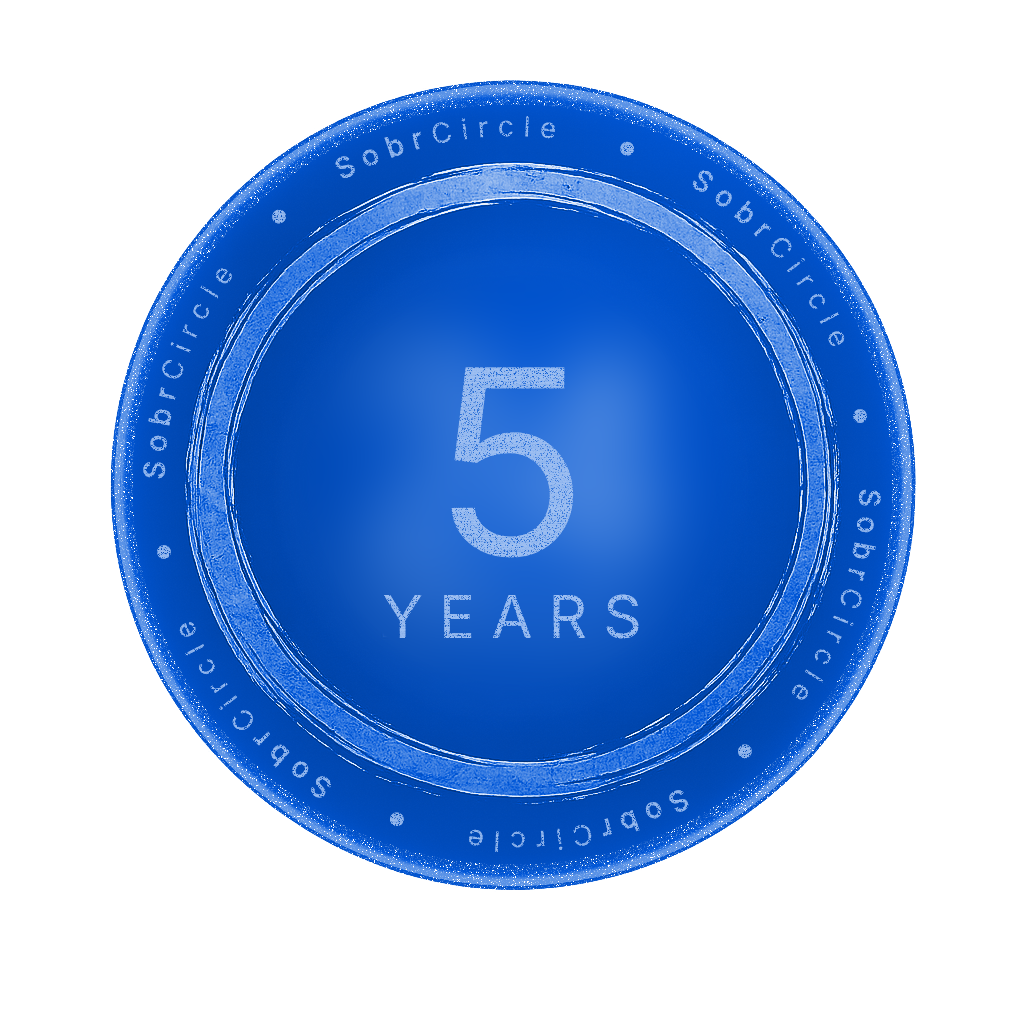
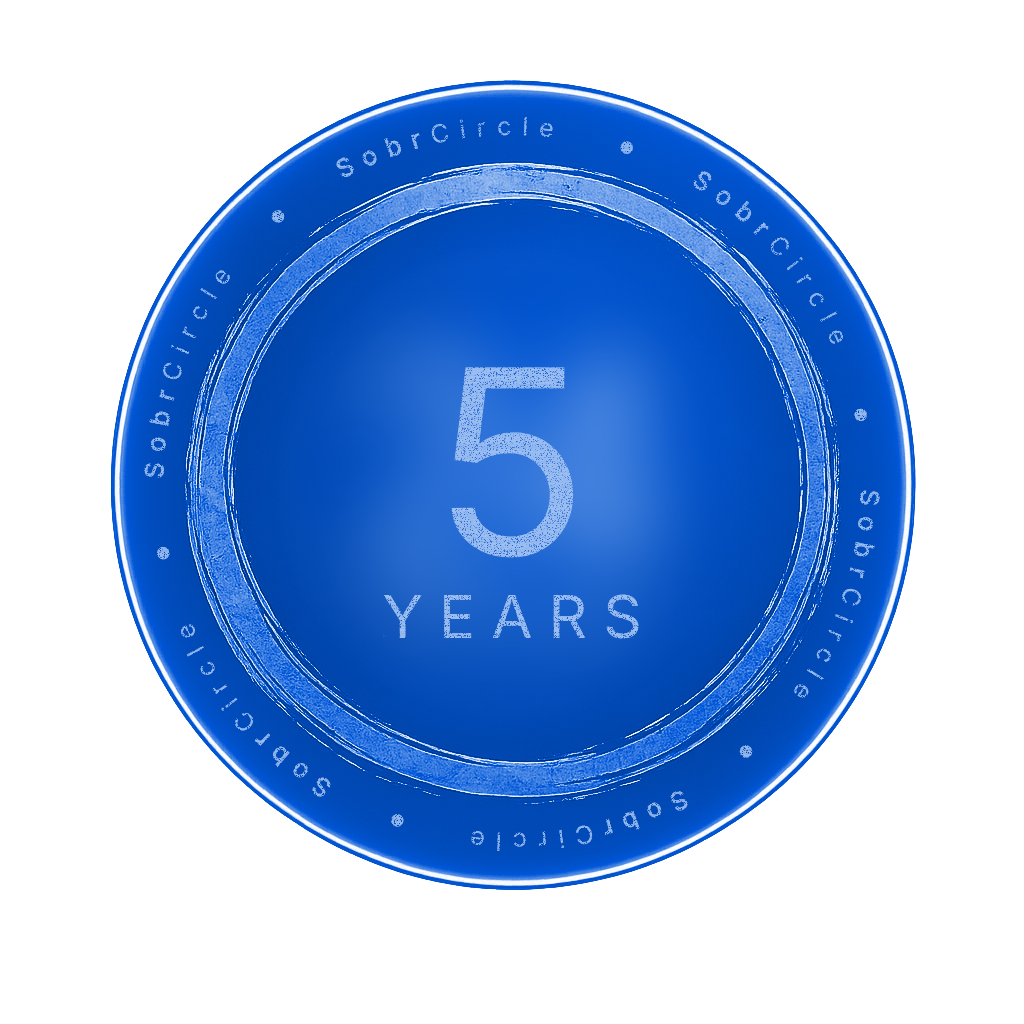
Revert outer-ring tint cap and outer distress; shrink SobrCircle
Reverts the white-line modifications — outer halo is back to the
brighter tint-toward-white lift and there's no extra distress on the
outer band. SobrCircle text shrinks 28 → 25px (dots 40 → 36px) for a
slightly more refined scale.

https://claude.ai/code/session_01TqmVcPLJNZuf7Q6XCPWgNk

diff --git a/scripts/generate-badges.ts b/scripts/generate-badges.ts
@@ -274,8 +274,8 @@ function drawMicroTypography(ctx: SKRSContext2D, hex: string) {
   // line. Dots between SobrCircle repeats are rendered larger via a
   // dedicated segment type so they read as a clear separator.
   const radius = 358
-  const fontSize = 28
-  const dotSize = 40
+  const fontSize = 25
+  const dotSize = 36
 
   type Seg = { text: string; weight: number; size: number }
   const segments: Seg[] = []
@@ -347,7 +347,6 @@ function applyTint(ctx: SKRSContext2D, hex: string) {
   const [tr, tg, tb] = hexToRgb(hex)
   const img = ctx.getImageData(0, 0, SIZE, SIZE)
   const px = img.data
-  const w = SIZE
 
   for (let i = 0; i < px.length; i += 4) {
     const a = px[i + 3]
@@ -360,22 +359,7 @@ function applyTint(ctx: SKRSContext2D, hex: string) {
     let b: number
     if (lum >= DISC_REF_LUM) {
       // Brighter than the disc interior: blend tint toward white.
-      // Pixel position lets us cap the lift on the outer halo so the
-      // bright outer "white line" stays in the badge's color family
-      // instead of going near-white. Inside the chrome ring we still
-      // let highlights lift fully so the brushwork still pops.
-      const idx = i / 4
-      const px_x = idx % w
-      const px_y = (idx - px_x) / w
-      const dx = px_x - CX
-      const dy = px_y - CY
-      const pr = Math.sqrt(dx * dx + dy * dy)
-
-      let t = (lum - DISC_REF_LUM) / (1 - DISC_REF_LUM)
-      // Outer halo region: cap the lift so the outermost ring reads
-      // as a brightened tint rather than near-white.
-      if (pr > 380) t = Math.min(t, 0.35)
-
+      const t = (lum - DISC_REF_LUM) / (1 - DISC_REF_LUM)
       r = tr + (255 - tr) * t
       g = tg + (255 - tg) * t
       b = tb + (255 - tb) * t
@@ -394,38 +378,6 @@ function applyTint(ctx: SKRSContext2D, hex: string) {
   ctx.putImageData(img, 0, 0)
 }
 
-// Apply distress to the outer halo ring (the "white line"). Erodes
-// pixel alpha randomly within r=380–410 only — same etched/chipped
-// character as the text and the chrome ring, contained to its band so
-// nothing bleeds outside.
-function distressOuterRing(ctx: SKRSContext2D) {
-  const img = ctx.getImageData(0, 0, SIZE, SIZE)
-  const px = img.data
-  const w = SIZE
-  let seed = 7
-  const rand = () => {
-    seed = (seed * 1664525 + 1013904223) % 0x100000000
-    return seed / 0x100000000
-  }
-  for (let i = 0; i < px.length; i += 4) {
-    const a = px[i + 3]
-    if (a === 0) continue
-    const idx = i >> 2
-    const px_x = idx % w
-    const px_y = (idx - px_x) / w
-    const dx = px_x - CX
-    const dy = px_y - CY
-    const pr2 = dx * dx + dy * dy
-    if (pr2 < 380 * 380) continue
-    if (pr2 > 415 * 415) continue
-    const r = rand()
-    if (r < 0.18) px[i + 3] = Math.max(0, a - Math.floor(rand() * 110))
-    else if (r < 0.22) px[i + 3] = 0
-    else if (r < 0.50) px[i + 3] = Math.max(0, a - Math.floor(rand() * 28))
-  }
-  ctx.putImageData(img, 0, 0)
-}
-
 async function renderBadge(template: any, d: Duration): Promise<Buffer> {
   // Pre-tint the template so the disc-gray anchor maps exactly to the
   // assigned color. Doing this first (rather than at the end) avoids the
@@ -439,13 +391,11 @@ async function renderBadge(template: any, d: Duration): Promise<Buffer> {
   const ctx = canvas.getContext('2d')
 
   // Tinted disc → erase old text → main duration text → SobrCircle
-  // micro-typography around the outside of the chrome ring → distress
-  // the outer halo line so it matches the etched character of the rest.
+  // micro-typography around the outside of the chrome ring.
   ctx.drawImage(tinted, 0, 0)
   eraseCenterText(ctx, tinted)
   drawText(ctx, d)
   drawMicroTypography(ctx, d.color)
-  distressOuterRing(ctx)
 
   return canvas.toBuffer('image/png')
 }
